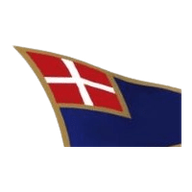
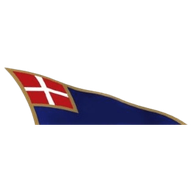
Re-crop the flag properly + use natural aspect ratio in nav/footer
The previous crop (0,0,180,110) chopped off the trailing tail of the
pennant — the flag bbox in the source PNG actually extends to x=312,
not 180. Result: a flag with the right half missing that looked
clipped in the nav.

Fix in two parts:

1. Re-cropped from the source (salvage cbr_logo_nobg.png) using the
   full top half (0,0,W,100) then getbbox-trim — produces a
   310×97 pennant with the full red-cross-on-white burgee plus the
   complete blue trailing tail. Saved both:
   - public/images/logo-flag.png (square 320×320, padded — for
     favicons and OG-style square contexts)
   - public/images/logo-flag-wide.png (natural ~3.2:1 ratio — for
     the nav + footer where the flag sits inline with text)
   Favicon set (icon-32/192/512 + favicon.ico) regenerated from the
   correctly-cropped square version.

2. Nav + footer img elements switched to logo-flag-wide.png and
   sized by height only (width: auto). The pennant now renders at
   its true proportions:
   - Home nav: 36px tall (30px ≤720px)
   - Inner-page nav: same (shared .logo .logo-flag rule)
   - Home footer brand row: 44px tall
   - Inner-page footer brand row: 40px tall, with width:auto via
     inline style override

flex: none stays on both so the flag still can't be pinched on
narrow viewports.

Changed region(s): [[0.0, 0.2188, 0.9688, 0.7812]]

diff --git a/app/globals.css b/app/globals.css
@@ -252,27 +252,31 @@ nav.top .logo .mark::after {
   border-radius: 50%;
   opacity: 0.55;
 }
-/* Flag burgee — replaces the text wordmark in the nav. Sized so the
- * brand has presence without overpowering the link row. The inner-
- * page nav also uses this rule via the shared .logo class.
- * `flex: none` is critical: the .logo container is a flexbox and
- * without it the image gets squashed horizontally next to the back
- * arrow / link row on narrow viewports. */
+/* Flag burgee — replaces the text wordmark in the nav. The source
+ * PNG (logo-flag-wide.png) is the natural ~3.2:1 pennant ratio, so
+ * we set height only and let width follow. `flex: none` is critical:
+ * the .logo container is a flexbox and without it the image gets
+ * pinched horizontally next to the back arrow / link row on narrow
+ * viewports. */
 nav.top .logo .logo-flag {
-  width: 44px;
-  height: 44px;
+  height: 36px;
+  width: auto;
   object-fit: contain;
   display: block;
   flex: none;
 }
 @media (max-width: 720px) {
-  nav.top .logo .logo-flag { width: 38px; height: 38px; }
+  nav.top .logo .logo-flag { height: 30px; }
 }
 /* Inner-page nav sits on a cream background — no filters needed. */
 nav.top.inner .logo .logo-flag { filter: none; }
 /* The .home-footer-bar flag also needs flex:none to avoid getting
  * pinched by adjacent text/buttons in the footer brand row. */
-.home-footer-bar .footer-brand img { flex: none; }
+.home-footer-bar .footer-brand img {
+  flex: none;
+  width: auto !important;
+  height: 44px !important;
+}
 nav.top .links { display: flex; gap: 36px; }
 nav.top .links a {
   color: var(--cream);

diff --git a/app/components/InnerPage.tsx b/app/components/InnerPage.tsx
@@ -71,7 +71,7 @@ export function InnerPageNav({ locale }: { locale: Locale }) {
         aria-label={`${homeLabel} — Como Boat Rental`}
       >
         <span className="back-arrow" aria-hidden>←</span>
-        <img src="/images/logo-flag.png" alt="" className="logo-flag" width="56" height="56" />
+        <img src="/images/logo-flag-wide.png" alt="" className="logo-flag" width="56" height="56" />
       </a>
       <div className="links">
         <a href={localePath(locale, "/")}>{homeLabel}</a>
@@ -111,7 +111,7 @@ export function InnerPageFooter({ locale }: { locale: Locale }) {
       <div className="container-x" style={{ display: "flex", flexDirection: "column", gap: 24 }}>
         <div style={{ display: "flex", flexWrap: "wrap", gap: 24, justifyContent: "space-between" }}>
           <div style={{ display: "flex", alignItems: "center", gap: 12 }}>
-            <img src="/images/logo-flag.png" alt="" width="48" height="48" style={{ display: "block", flex: "none" }} />
+            <img src="/images/logo-flag-wide.png" alt="" height="40" style={{ display: "block", flex: "none", height: 40, width: "auto" }} />
             <div style={{ fontFamily: "var(--display)", fontSize: 28 }}>Como Boat Rental</div>
           </div>
           <div style={{ display: "flex", gap: 24, flexWrap: "wrap" }}>

diff --git a/app/components/HomePage.tsx b/app/components/HomePage.tsx
@@ -467,7 +467,7 @@ export default function HomePage({ locale }: { locale: Locale }) {
     <>
       <nav className={`top ${scrolled ? "scrolled" : ""} ${menuOpen ? "menu-open" : ""}`} id="topnav">
         <a href={localePath(locale, "/")} className="logo" aria-label="Como Boat Rental">
-          <img src="/images/logo-flag.png" alt="" className="logo-flag" width="56" height="56" />
+          <img src="/images/logo-flag-wide.png" alt="" className="logo-flag" width="56" height="56" />
         </a>
         <div className="links">
           <a href="#tours">{t.nav.tours}</a>
@@ -917,7 +917,7 @@ export default function HomePage({ locale }: { locale: Locale }) {
               identity is present once you've scrolled to the bottom
               of the page. Mirrors the inner-page footer treatment. */}
           <div className="footer-brand">
-            <img src="/images/logo-flag.png" alt="" width="56" height="56" />
+            <img src="/images/logo-flag-wide.png" alt="" width="56" height="56" />
             <span className="footer-brand-wordmark">Como Boat Rental</span>
           </div>
           <div className="footer-policies">
